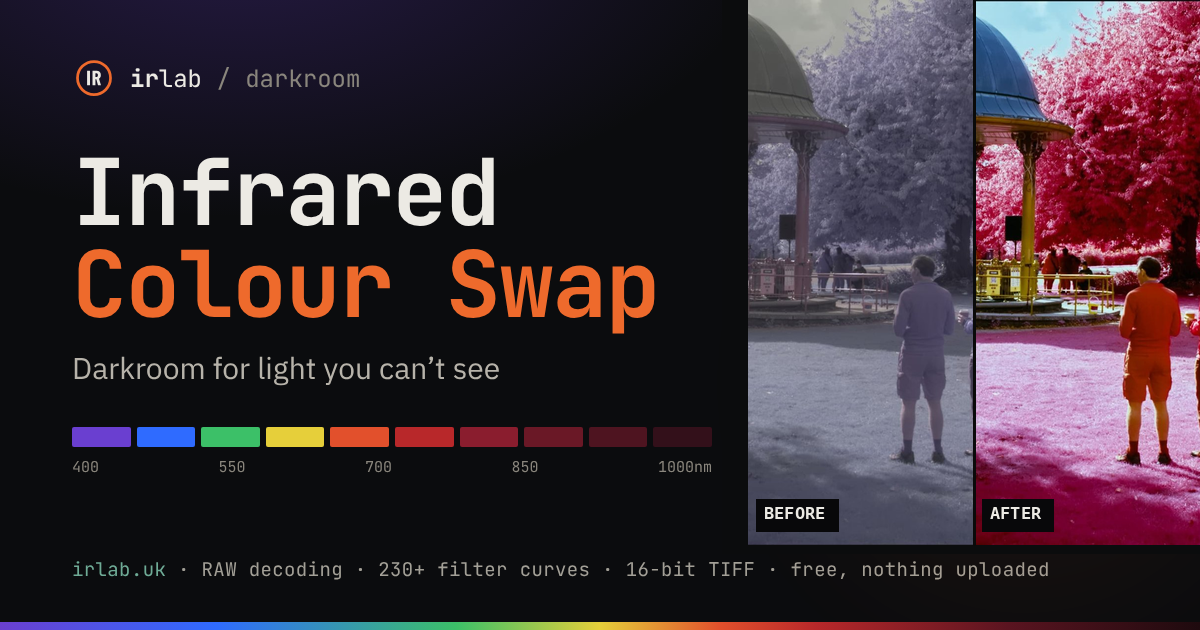
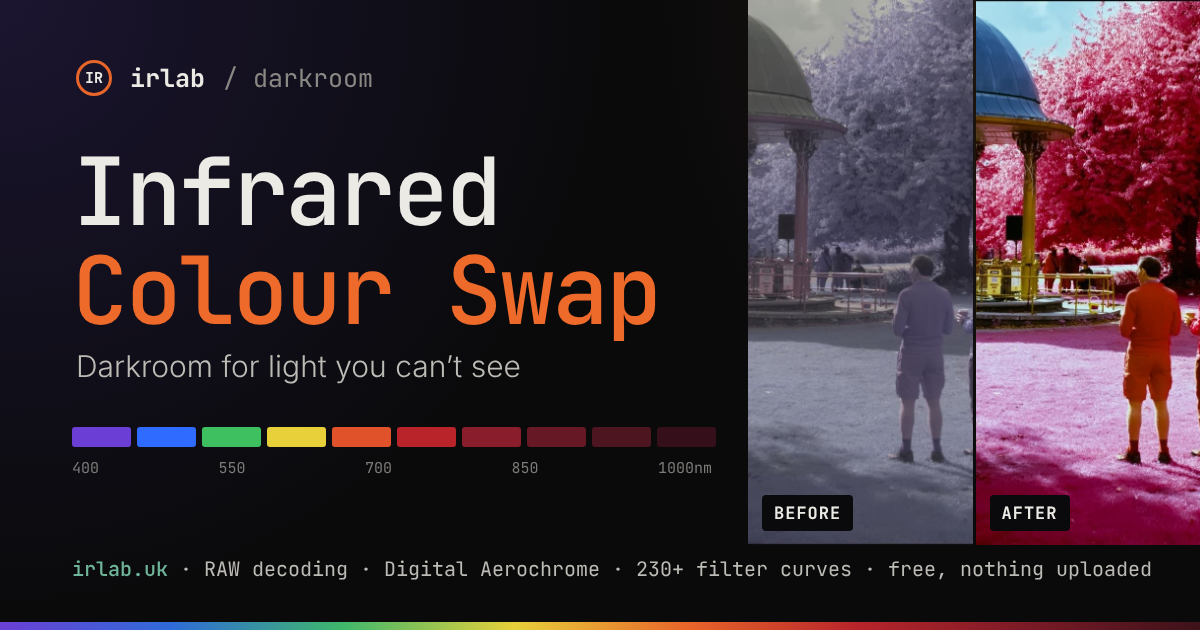
Build 329: share image redrawn in JetBrains Mono with Digital Aerochrome in the footer
Claude-Session: https://claude.ai/code/session_01AEL1uWGy5oHYWbdADFbu9a

diff --git a/index.html b/index.html
@@ -14,7 +14,7 @@
 <!-- Width and height are declared so Facebook and Messenger lay the large card
      out on first sight, rather than showing a small one until their crawler has
      fetched and measured the file. og:image must be an absolute URL. -->
-<meta property="og:image" content="https://irlab.uk/og-card.png?v=328">
+<meta property="og:image" content="https://irlab.uk/og-card.png?v=329">
 <meta property="og:image:type" content="image/png">
 <meta property="og:image:width" content="1200">
 <meta property="og:image:height" content="630">
@@ -22,10 +22,10 @@
 <meta name="twitter:card" content="summary_large_image">
 <meta name="twitter:title" content="Infrared Colour Swap — Aerochrome &amp; False Colour Tool">
 <meta name="twitter:description" content="Free browser tool for full-spectrum, UV and infrared photography. RAW decoding, channel swap, Aerochrome looks, 230+ filter curves.">
-<meta name="twitter:image" content="https://irlab.uk/og-card.png?v=328">
+<meta name="twitter:image" content="https://irlab.uk/og-card.png?v=329">
 <link rel="canonical" href="https://irlab.uk/">
 <meta name="theme-color" content="#141518">
-<meta name="irlab-build" content="328">
+<meta name="irlab-build" content="329">
 <link rel="manifest" href="/manifest.json">
 <link rel="icon" href="/favicon.ico?v=3" sizes="any">
 <link rel="icon" href="/favicon.svg?v=3" type="image/svg+xml">
@@ -54,15 +54,15 @@
 </script>
 
 <link rel="preload" href="fonts/inter-latin-400-normal.woff2" as="font" type="font/woff2" crossorigin>
-<link rel="stylesheet" href="css/fonts.css?b=328">
+<link rel="stylesheet" href="css/fonts.css?b=329">
 
-<script src="i18n/tr.js?b=328"></script>
-<link rel="stylesheet" href="css/main.css?b=328">
-<link rel="stylesheet" id="uxRefresh" href="css/refresh.css?b=328">
-<link rel="stylesheet" href="css/trichrome.css?b=328">
-<link rel="stylesheet" id="uxDock" href="css/dock.css?b=328">
-<link rel="stylesheet" href="css/minimal.css?b=328">
-<link rel="preload" href="editor.js?b=328" as="script">
+<script src="i18n/tr.js?b=329"></script>
+<link rel="stylesheet" href="css/main.css?b=329">
+<link rel="stylesheet" id="uxRefresh" href="css/refresh.css?b=329">
+<link rel="stylesheet" href="css/trichrome.css?b=329">
+<link rel="stylesheet" id="uxDock" href="css/dock.css?b=329">
+<link rel="stylesheet" href="css/minimal.css?b=329">
+<link rel="preload" href="editor.js?b=329" as="script">
 </head>
 <body>
 
@@ -645,7 +645,7 @@
     <!-- Build 279: the people behind it, on the home page -->
     <div id="creditsHome">Made by <a href="https://www.instagram.com/irlab.uk" target="_blank" rel="noopener" style="color:var(--safelight);font-weight:600;text-decoration:none">Nik Bennett</a>
       &middot; Colour science &amp; RAW decode by <a href="https://philwarrenphotography.com" target="_blank" rel="noopener" style="color:var(--safelight);font-weight:600;text-decoration:none">Phil Warren</a></div>
-    <div id="buildStampHome">Version 2026-11-07 · build 328</div>
+    <div id="buildStampHome">Version 2026-11-07 · build 329</div>
   </footer>
 </div>
 
@@ -1858,7 +1858,7 @@
       <br><a href="privacy.html" target="_blank" rel="noopener" style="color:var(--muted);text-decoration:underline">Privacy</a>
       <br><a href="LICENSE.md" target="_blank" rel="noopener" style="color:var(--muted);text-decoration:underline">Source: AGPL-3.0</a>
       <br><a href="THIRD_PARTY_NOTICES.md" target="_blank" rel="noopener" style="color:var(--muted);text-decoration:underline">Third-party notices (LibRaw, RawTherapee)</a>
-<br><span id="buildStamp" style="color:var(--muted)" title="Which version of the app this is. Tap the arrow to check for a newer one and update.">Version 2026-11-07 · build 328</span>
+<br><span id="buildStamp" style="color:var(--muted)" title="Which version of the app this is. Tap the arrow to check for a newer one and update.">Version 2026-11-07 · build 329</span>
       <br><button id="btnInstall" type="button">Install as an app</button>
       <span id="kbHint">Ctrl+Z undo &middot; Ctrl+Shift+Z redo &middot; [ ] cycle presets &middot; F full quality view &middot; Space hold to compare</span>
     </footer>
@@ -1954,6 +1954,6 @@
 <!-- The editor's code: editor.js, BUILT from src/*.js by tools/build.py (see the README's Code layout). One script, so
      it all runs in one go, as the single inline block it came from did. ?b=<build> keeps the service worker's cached
      copy of an older editor.js from ever running under a newer page; tools/bump_build.py sets it. -->
-<script src="editor.js?b=328"></script>
+<script src="editor.js?b=329"></script>
 </body>
 </html>

diff --git a/filters.html b/filters.html
@@ -2,7 +2,7 @@
 <html lang="en">
 <head>
 <meta charset="UTF-8">
-<meta name="irlab-build" content="328">
+<meta name="irlab-build" content="329">
 <meta name="viewport" content="width=device-width, initial-scale=1.0">
 <title>Filter Database — UV/IR Filter Stacking Calculator</title>
 <meta name="description" content="Free transmission curve visualiser and stacking calculator for UV, IR and colour glass filters. 500+ filters — Schott, B+W, Hoya, Wratten, Kodak — fitted to real manufacturer and spectrometer data, with auto-generated stacking guidance.">
@@ -10,7 +10,7 @@
 <meta name="robots" content="index, follow">
 <link rel="canonical" href="https://irlab.uk/filters.html">
 <meta name="theme-color" content="#0b0c0e">
-<script src="i18n/tr.js?b=328"></script>
+<script src="i18n/tr.js?b=329"></script>
 <link rel="icon" href="/favicon.ico?v=3" sizes="any">
 <link rel="icon" href="/favicon.svg?v=3" type="image/svg+xml">
 <link rel="icon" type="image/png" sizes="512x512" href="/favicon-512.png?v=3">
@@ -81,9 +81,9 @@
 <meta name="twitter:image" content="https://irlab.uk/preview-filters.jpg">
 
 <link rel="preload" href="fonts/inter-latin-400-normal.woff2" as="font" type="font/woff2" crossorigin>
-<link rel="stylesheet" href="css/fonts.css?b=328">
-<link rel="stylesheet" href="css/filters.css?b=328">
-<link rel="stylesheet" href="css/minimal.css?b=328">
+<link rel="stylesheet" href="css/fonts.css?b=329">
+<link rel="stylesheet" href="css/filters.css?b=329">
+<link rel="stylesheet" href="css/minimal.css?b=329">
 </head>
 <body class="fltPage">
 <div id="cookieBanner" style="display:none;position:fixed;left:0;right:0;bottom:0;z-index:9999;
@@ -683,6 +683,6 @@ const trT = s => (window.irlabTr && irlabTr.lookup(s)) || s;
 
 
 <!-- The filter page's code: filters.js, BUILT from src-filters/*.js by tools/build.py. -->
-<script src="filters.js?b=328"></script>
+<script src="filters.js?b=329"></script>
 </body>
 </html>

diff --git a/README.html b/README.html
@@ -580,7 +580,7 @@ footer p{margin:0 0 8px}
 <footer>
   <div class="wrap">
     <p><a href="https://irlab.uk">irlab.uk</a> &middot; <a href="https://irlab.uk/filters.html">Filter database</a> &middot; <a href="https://www.instagram.com/irlab.uk">Instagram</a></p>
-    <p>This page describes the app as of build 328.</p>
+    <p>This page describes the app as of build 329.</p>
   </div>
 </footer>
 </body>
